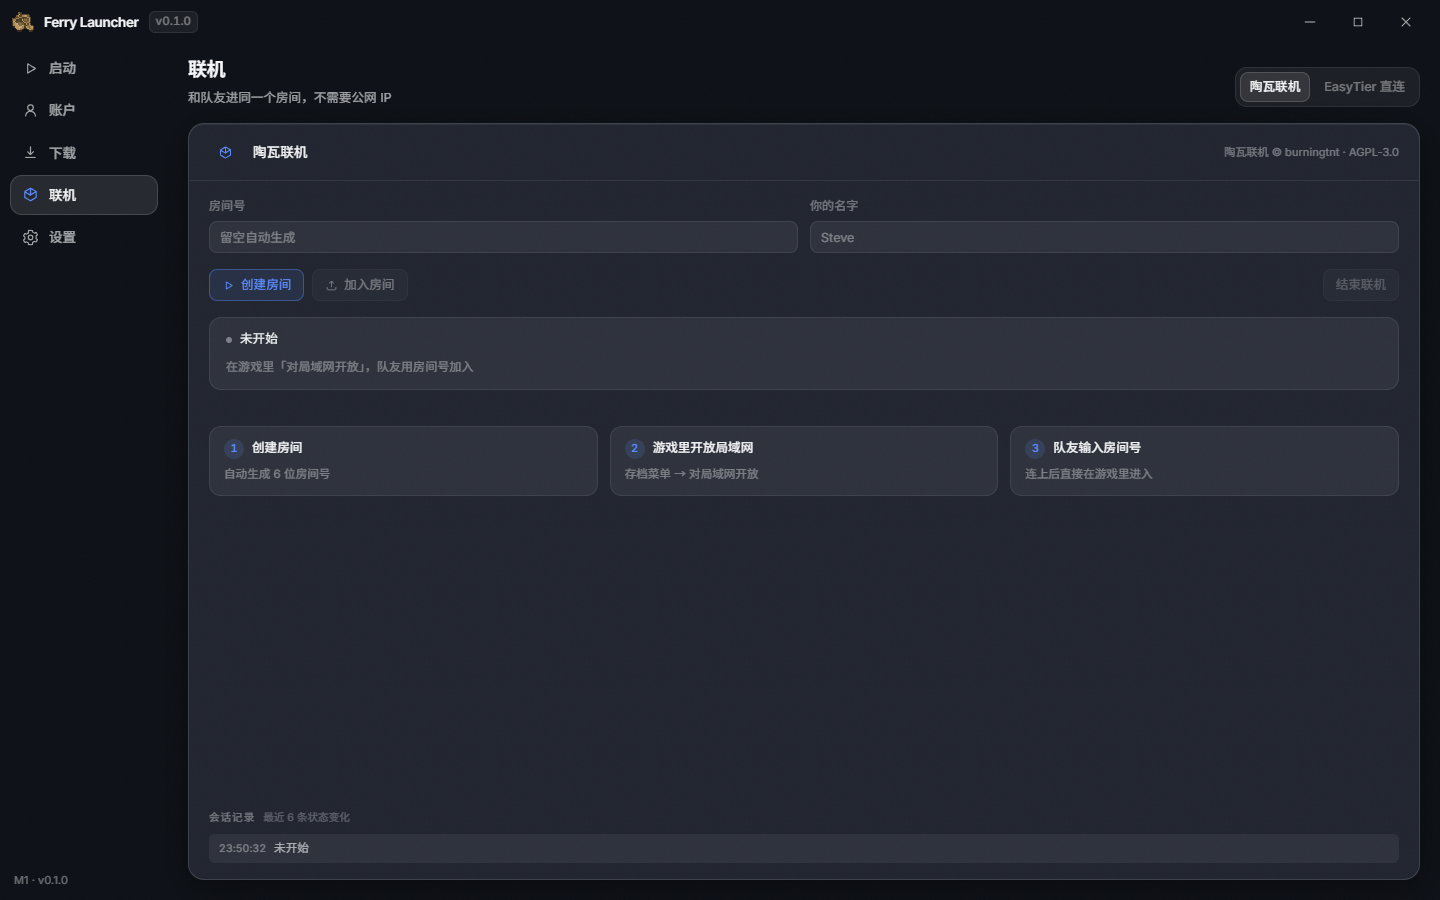
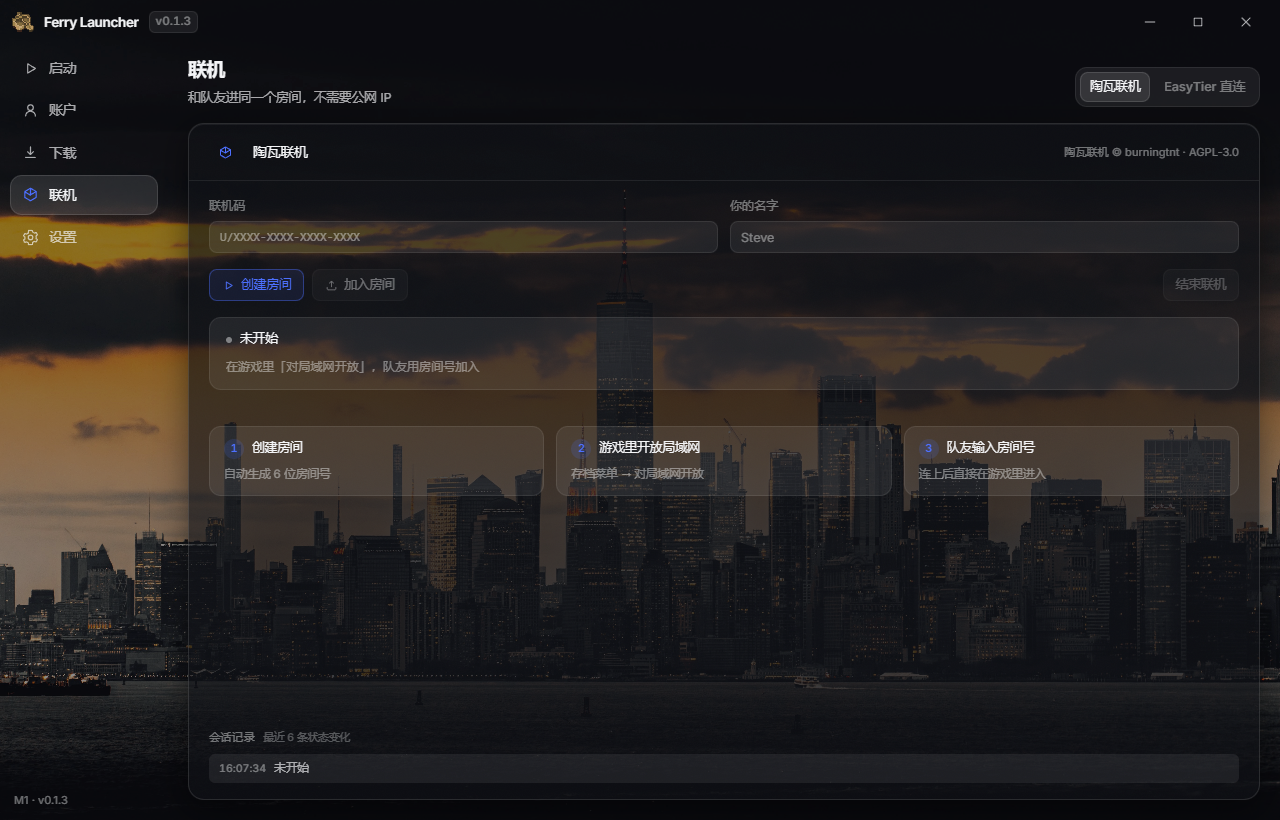
Update to v0.1.3: refresh screenshots and version references
- 界面截图全部更新为 0.1.3 实机截图(1280x820)
- 下载页展示 Mod / 资源 标签与分页
- 版本号同步至 0.1.3,补充崩溃分析规则收紧说明

diff --git a/index.html b/index.html
@@ -49,12 +49,12 @@
       <button class="island" id="island" aria-expanded="false" aria-label="查看运行状态">
         <span class="island__compact">
           <i class="island__dot"></i>
-          <span class="island__ver">v0.1.2</span>
+          <span class="island__ver">v0.1.3</span>
         </span>
         <span class="island__expanded">
           <span class="island__row">
             <i class="island__dot"></i>
-            <b>Ferry Launcher 0.1.2</b>
+            <b>Ferry Launcher 0.1.3</b>
             <span class="island__ready">已就绪</span>
           </span>
           <span class="island__desc">8.8 MB 单文件 · Windows x64 · 5 类资源 · MIT 开源</span>
@@ -210,7 +210,7 @@
               <svg viewBox="0 0 24 24" aria-hidden="true"><path d="M12 9v5m0 3h.01"/><path d="M10.3 4.2 2.5 18a2 2 0 0 0 1.7 3h15.6a2 2 0 0 0 1.7-3L13.7 4.2a2 2 0 0 0-3.4 0Z"/></svg>
             </div>
             <h3>崩溃自动分析 <span class="tag-new">新</span></h3>
-            <p>游戏异常退出时自动读日志与 <code>crash-reports</code>,匹配 Java 版本、内存不足、缺前置、Mod 冲突、显卡驱动等十余种常见问题,直接给出原因和修复建议。</p>
+            <p>游戏异常退出时自动读日志与 <code>crash-reports</code>,匹配 Java 版本、内存不足、缺前置、Mod 冲突、显卡驱动等十余种常见问题,直接给出原因和修复建议。0.1.3 收紧了匹配规则,正常启动日志不会再被误判。</p>
           </article>
 
           <article class="feature reveal" style="--d:.36s">
@@ -283,7 +283,7 @@
   └─ settings    <span class="c-dim"># 设置</span>
 
 <span class="c-dim"># 单文件静态链接</span>
-<span class="c-fn">FerryLauncher</span>-0.1.2.exe
+<span class="c-fn">FerryLauncher</span>-0.1.3.exe
   <span class="c-str">≈ 8.8 MB · 免 VC 运行库</span></code></pre>
           </div>
         </div>
@@ -298,7 +298,7 @@
           <div class="download-card__inner">
             <span class="kicker kicker--light">开始使用</span>
             <h2>准备好启程了吗?</h2>
-            <p>下载即可运行,无需安装、无需运行库。当前版本 v0.1.2,支持 Windows x64。</p>
+            <p>下载即可运行,无需安装、无需运行库。当前版本 v0.1.3,支持 Windows x64。</p>
             <div class="download-card__actions">
               <a class="btn btn--light btn--lg" href="https://github.com/17695432859/Ferry-Launcher/releases" target="_blank" rel="noopener">
                 <svg class="ico" viewBox="0 0 24 24" aria-hidden="true"><path d="M12 3v12m0 0 4-4m-4 4-4-4M5 19h14"/></svg>
